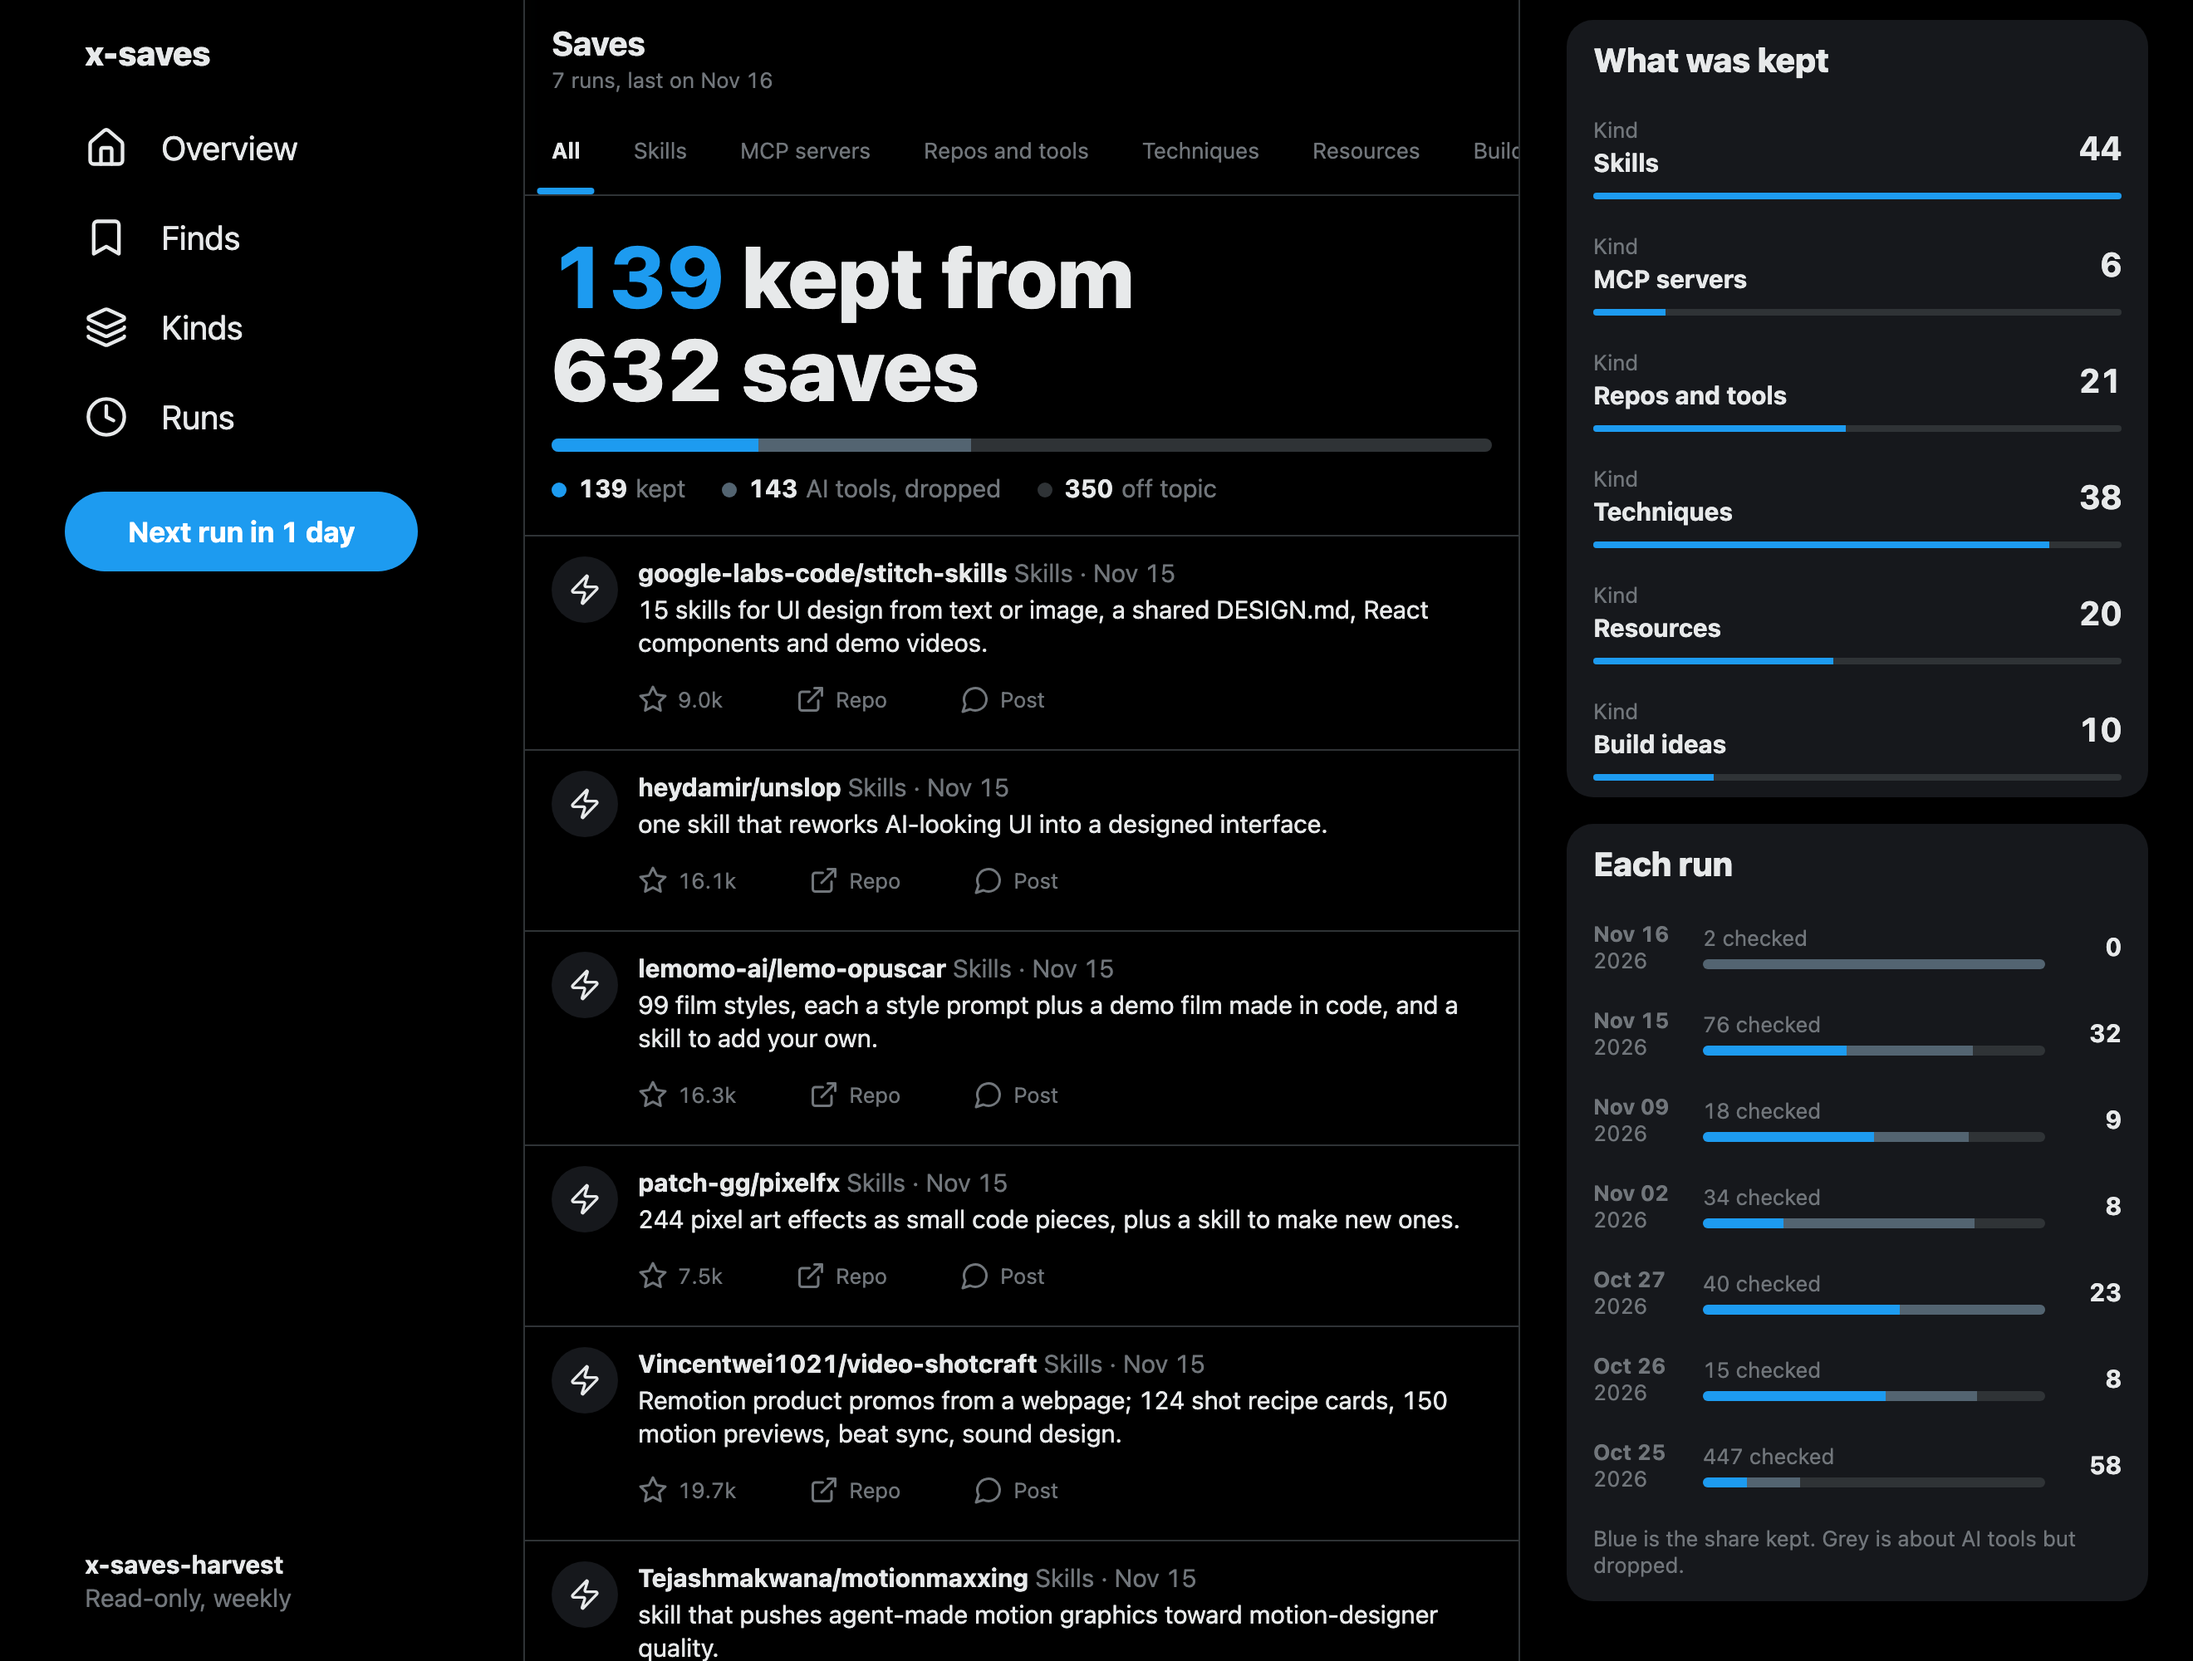
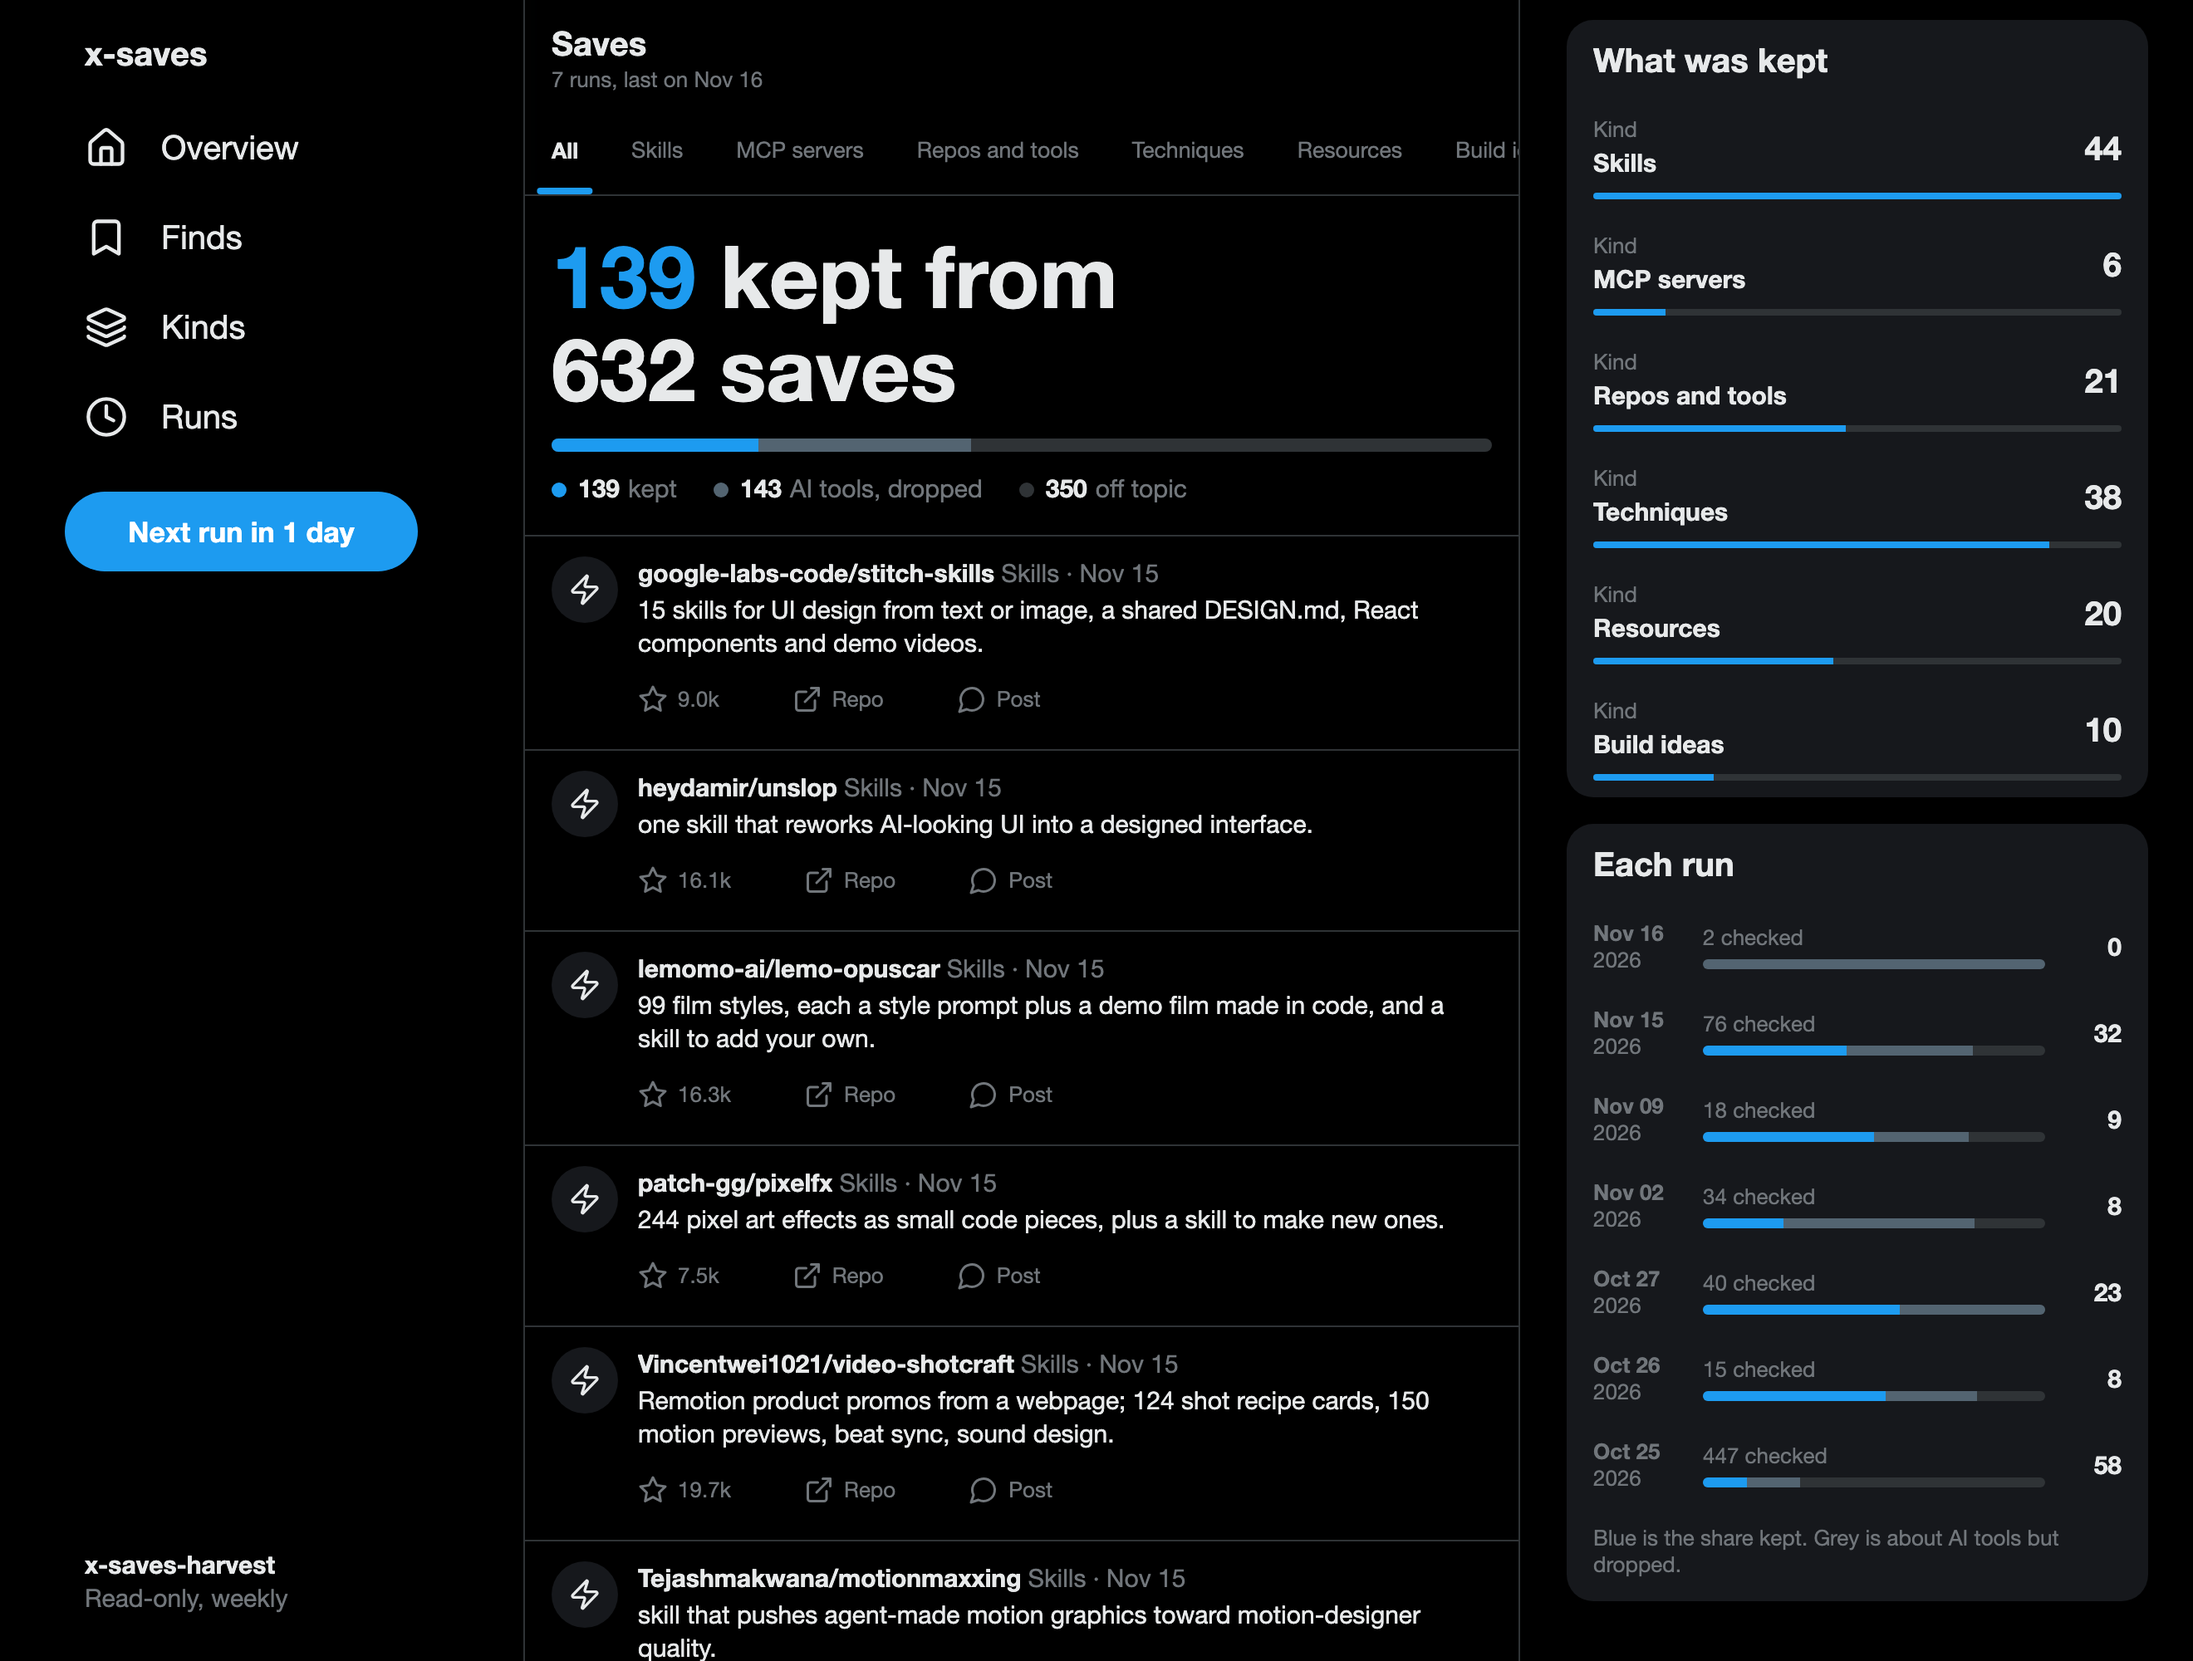
Dashboard: open X's official embedded post from each row; document what is and isn't official

diff --git a/scripts/dashboard.py b/scripts/dashboard.py
@@ -2,7 +2,8 @@
 """Build a one-page dashboard for x-saves-harvest from what the skill already keeps.
 
 Reads the handled-posts ledger (seen.json) and the notes file the skill writes, and
-writes one self-contained HTML file. It reads nothing from X and changes neither file.
+writes one HTML file. It changes neither file. The page itself asks X for a post only when
+the reader presses "Post" on a row, through X's official embedded-post widget.
 """
 from __future__ import annotations
 
@@ -95,7 +96,7 @@ CSS = """
 :root{--bg:#000;--text:#e7e9ea;--dim:#71767b;--line:#2f3336;--card:#16181c;--hover:rgba(231,233,234,.06);--blue:#1d9bf0;--red:#f4212e;--track:#2f3336}
 *{box-sizing:border-box}
 html{scroll-behavior:smooth;scroll-padding-top:110px}
-body{margin:0;background:var(--bg);color:var(--text);font:15px/20px -apple-system,BlinkMacSystemFont,"Segoe UI",Roboto,Helvetica,Arial,sans-serif;font-variant-numeric:tabular-nums}
+body{margin:0;background:var(--bg);color:var(--text);font:15px/20px "Helvetica Neue",Helvetica,-apple-system,BlinkMacSystemFont,"Segoe UI",Roboto,Arial,sans-serif;font-variant-numeric:tabular-nums}
 a{color:inherit;text-decoration:none}
 svg{width:20px;height:20px;fill:none;stroke:currentColor;stroke-width:2;stroke-linecap:round;stroke-linejoin:round;flex:none}
 ul{list-style:none;margin:0;padding:0}
@@ -136,7 +137,12 @@ main{border-left:1px solid var(--line);border-right:1px solid var(--line);min-he
 .item p{margin:2px 0 0;overflow-wrap:anywhere}
 .act{display:flex;gap:44px;margin-top:6px;color:var(--dim);font-size:13px}
 .act>*{display:inline-flex;align-items:center;gap:6px;min-height:36px} .act svg{width:18px;height:18px}
-.act a:hover{color:var(--blue)}
+.act a:hover,.act button:hover{color:var(--blue)}
+.act button{background:none;border:0;padding:0;color:inherit;font:inherit;cursor:pointer}
+.act button[aria-expanded=true]{color:var(--blue)}
+.act button:focus-visible{outline:2px solid var(--blue);outline-offset:2px}
+.embed{min-height:120px;margin-top:4px} .embed[hidden]{display:none} .embed .twitter-tweet{margin:0!important}
+.embed .wait,.embed .fail{color:var(--dim);font-size:13px;padding:12px 0} .embed .fail a{color:var(--blue)}
 .empty{padding:32px 16px;color:var(--dim);text-align:center}
 aside{position:sticky;top:0;padding:12px 0 24px;display:grid;gap:16px}
 .card{background:var(--card);border-radius:16px;overflow:hidden}
@@ -162,6 +168,14 @@ const tabs=[...document.querySelectorAll('.tabs button')],items=[...document.que
 function pick(kind){tabs.forEach(b=>b.setAttribute('aria-selected',String(b.dataset.kind===kind)));let n=0;
 items.forEach(i=>{const on=kind==='All'||i.dataset.kind===kind;i.hidden=!on;if(on)n++});none.hidden=n>0}
 tabs.forEach(b=>b.addEventListener('click',()=>pick(b.dataset.kind)));
+let widgets;
+function loadWidgets(){return widgets||(widgets=new Promise((ok,no)=>{const t=window.twttr=window.twttr||{};t._e=t._e||[];t.ready=t.ready||(f=>t._e.push(f));
+const s=document.createElement('script');s.src='https://platform.twitter.com/widgets.js';s.async=true;s.onerror=no;document.head.appendChild(s);
+t.ready(ok);setTimeout(no,15000)}))}
+document.querySelectorAll('.show').forEach(b=>b.addEventListener('click',()=>{const box=b.closest('.item').querySelector('.embed'),open=b.getAttribute('aria-expanded')==='true';
+b.setAttribute('aria-expanded',String(!open));box.hidden=open;if(open||box.dataset.done)return;box.dataset.done='1';box.innerHTML='<div class="wait">Loading the post from X</div>';
+const fail=()=>{box.innerHTML='<div class="fail">X did not return this post. <a href="'+b.dataset.url+'">Open it on X</a></div>'};
+loadWidgets().then(t=>t.widgets.createTweet(b.dataset.post,box,{theme:'dark',dnt:true,conversation:'none'})).then(el=>{const w=box.querySelector('.wait');if(w)w.remove();if(!el)fail()}).catch(fail)}));
 document.querySelectorAll('.trend').forEach(t=>t.addEventListener('click',()=>{pick(t.dataset.kind);document.getElementById('finds').scrollIntoView()}));
 """
 
@@ -194,9 +208,13 @@ def build(seen, entries, today):
     for x in sorted(entries, key=lambda x: x["run"], reverse=True)[:TIMELINE]:
         name = f'<a class="name" href="{e(x["url"])}">{e(x["name"])}</a>' if x["url"] else f'<span class="name">{e(x["name"])}</span>'
         acts = [f'<span>{icon(UI["star"])}{e(x["stars"])}</span>'] if x["stars"] else []
+        pid = None
         if x["url"]:
             acts.append(f'<a href="{e(x["url"])}">{icon(UI["link"])}Repo</a>')
-        if x["post"]:
+        pid = re.search(r"/status/(\d+)", x["post"])
+        if pid:
+            acts.append(f'<button class="show" data-post="{pid.group(1)}" data-url="{e(x["post"])}" aria-expanded="false">{icon(UI["post"])}Post</button>')
+        elif x["post"]:
             acts.append(f'<a href="{e(x["post"])}">{icon(UI["post"])}Post</a>')
         items.append(f"""
       <li class="item" data-kind="{e(x['kind'])}">
@@ -205,6 +223,7 @@ def build(seen, entries, today):
           <div class="hd">{name}<span>{e(x['kind'])}</span><span>·</span><span><time datetime="{e(x['run'])}">{day(x['run']):%b %d}</time></span></div>
           {f'<p>{e(x["text"])}</p>' if x['text'] else ''}
           {f'<div class="act">{"".join(acts)}</div>' if acts else ''}
+          {'<div class="embed" hidden></div>' if pid else ''}
         </div>
       </li>""")
     if not items:

diff --git a/README.md b/README.md
@@ -38,17 +38,20 @@ python3 scripts/dashboard.py --note ~/notes/"X Saves for Claude.md" --out dashbo
 
 ## Dashboard design
 
-The page borrows X's dark theme so the saves read like the feed they came from.
+X does not publish a design system, UI kit or component library for other people's products. I checked on Nov 22, 2026: its public resources are a brand toolkit, embeddable posts and timelines, and a few older open-source projects. So the page uses the two official things that exist and says where the rest comes from.
 
-| Part | Rule |
+| Part | Source |
 |---|---|
-| Layout | Three columns: section links, a 600px timeline, a 350px column of cards. Below 1060px the cards drop under the timeline; below 700px the links go |
-| Colour | Black `#000`, text `#e7e9ea`, secondary `#71767b`, lines `#2f3336`, cards `#16181c`. One accent, blue `#1d9bf0`, for the selected tab and anything kept. Red `#f4212e` only when a run is due |
-| Type | The system sans at 15/20, 13/16 for secondary text, 20px bold for headers, tabular numbers |
-| Shapes | Full-round pills, tabs and bars; 16px card corners; 40px round marks for each find |
-| Timeline row | Mark by kind, name with kind and date, one line of description, then stars, repo and the original post |
-| Tabs | Filter the timeline by kind. A card row on the right does the same |
-| Icons | lucide, one stroke weight |
+| Posts | **Official.** "Post" on a row opens X's own embedded post, dark theme, loaded from `platform.twitter.com/widgets.js` with `dnt` on. X draws it, so it follows X's display requirements |
+| Black and white | **Official.** The X brand guide gives black `#000000` and white `#FFFFFF` as the primary colours |
+| Typeface | Helvetica Neue first, the face the partner brand guide uses. X's own Chirp is not licensed for other products, so it is not used |
+| Blue, greys, card colour | Not official. Read from x.com's dark theme: blue `#1d9bf0`, secondary text `#71767b`, lines `#2f3336`, cards `#16181c` |
+| Layout | Not official. Modelled on X's home page: section links, a 600px timeline with kind tabs, a 350px column of cards |
+| Icons | lucide. X's interface icons and logo are not used |
+
+The page is not an X product and does not use the X logo. The only time the logo appears is inside X's own embed.
+
+Sources: [X for Websites](https://docs.x.com/x-for-websites/overview), [display requirements](https://docs.x.com/developer-terms/display-requirements), [brand toolkit](https://about.x.com/en/who-we-are/brand-toolkit).
 
 ## Needs
 
